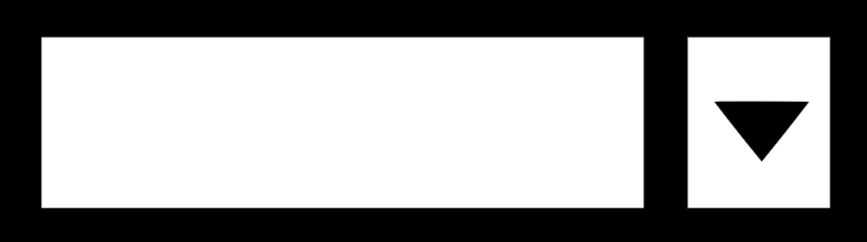
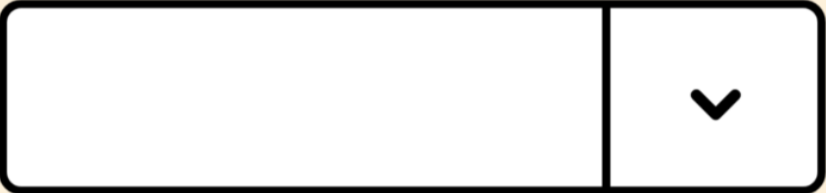
Modified dropdown

diff --git a/src/components/user-components/Dropdown/Dropdown.tsx b/src/components/user-components/Dropdown/Dropdown.tsx
@@ -1,7 +1,7 @@
 import React, { useContext, useState } from "react";
 import { MenuItem, Select } from "@material-ui/core";
 import { AppContext } from "../../../Context/App.context";
-import DropdownImg from "./Dropdowns.png";
+import DropdownImg from "./Dropdown.png";
 import "./Dropdown.scss";
 
 interface Props {
@@ -26,9 +26,8 @@ const DropdownComponent: React.FC<Props> = ({ id }) => {
     )[0];
     return requiredItem;
   })();
-  var { options, value } = item;
-  // eslint-disable-next-line no-redeclare
-  var [value, setValue] = useState<string>(value || "Placeholder");
+  const { options, value } = item;
+  const [label, setLabel] = useState<string>("");
   const typeToShow = () => {
     if (!edit)
       return (
@@ -37,7 +36,7 @@ const DropdownComponent: React.FC<Props> = ({ id }) => {
             options.length && (
               <>
                 <Select
-                  value={value || "Placeholder"}
+                  value={label || value || "Placeholder"}
                   variant="outlined"
                   className="select-dropdown"
                   onChange={(
@@ -45,14 +44,16 @@ const DropdownComponent: React.FC<Props> = ({ id }) => {
                       name?: string | undefined;
                       value: any;
                     }>
-                  ) => setValue(e.target.value)}
+                  ) => setLabel(e.target.value)}
                 >
                   <MenuItem value={value || "Placeholder"} disabled>
                     {value || "Placeholder"}
                   </MenuItem>
-                  {options.map((option) =>
+                  {options.map((option, idx) =>
                     option !== "" ? (
-                      <MenuItem value={option}> {option} </MenuItem>
+                      <MenuItem key={idx} value={option}>
+                        {option}
+                      </MenuItem>
                     ) : null
                   )}
                 </Select>
@@ -65,7 +66,7 @@ const DropdownComponent: React.FC<Props> = ({ id }) => {
               value={value || "Placeholder"}
             >
               <MenuItem value={value || "Placeholder"} disabled>
-                Placeholder
+                {value || "Placeholder"}
               </MenuItem>
             </Select>
           )}

diff --git a/src/components/Options/Options.tsx b/src/components/Options/Options.tsx
@@ -76,24 +76,6 @@ const Options: React.FC<Props> = () => {
           <div className="d-flex flex-column text-center">
             <i
               onClick={() => {
-                dispatch({ type: ADD_ITEM, payload: "hline" });
-              }}
-              className="fas fa-grip-lines fa-2x"
-            ></i>
-            <small>Horizontal Line</small>
-          </div>
-          <div className="d-flex flex-column text-center">
-            <i
-              onClick={() => {
-                dispatch({ type: ADD_ITEM, payload: "vline" });
-              }}
-              className="fas fa-grip-lines-vertical fa-2x"
-            ></i>
-            <small>Vertical line</small>
-          </div>
-          <div className="d-flex flex-column text-center">
-            <i
-              onClick={() => {
                 dispatch({ type: ADD_ITEM, payload: "checkbox" });
               }}
               className="fas fa-check-circle fa-2x"
@@ -151,6 +133,24 @@ const Options: React.FC<Props> = () => {
               className="fas fa-dot-circle fa-2x"
             ></i>
             <small>Radio Input</small>
+          </div>
+          <div className="d-flex flex-column text-center">
+            <i
+              onClick={() => {
+                dispatch({ type: ADD_ITEM, payload: "hline" });
+              }}
+              className="fas fa-grip-lines fa-2x"
+            ></i>
+            <small>Horizontal Line</small>
+          </div>
+          <div className="d-flex flex-column text-center">
+            <i
+              onClick={() => {
+                dispatch({ type: ADD_ITEM, payload: "vline" });
+              }}
+              className="fas fa-grip-lines-vertical fa-2x"
+            ></i>
+            <small>Vertical line</small>
           </div>
           <div className="d-flex flex-column text-center">
             <i

diff --git a/src/components/Customize/Forms/DropdownOptions.tsx b/src/components/Customize/Forms/DropdownOptions.tsx
@@ -8,27 +8,35 @@ import {
 } from "../../../Reducer/actionTypes";
 import CustomForm from "./CustomForm";
 import "./Form.scss";
+import { useAlert } from "react-alert";
 
 interface Props {}
 
 const DropdownOptions: React.FC<Props> = () => {
   const { state, dispatch } = useContext(AppContext);
-
   const [value, handleValue, resetValue] = useInput("");
   const [option0, handleOption0, resetOption0] = useInput("");
   const [option1, handleOption1, resetOption1] = useInput("");
   const [option2, handleOption2, resetOption2] = useInput("");
   const [option3, handleOption3, resetOption3] = useInput("");
+  const alert = useAlert();
+
   const handleSubmit = (event: React.FormEvent<HTMLFormElement>) => {
     event.preventDefault();
+    alert.success(
+      <div className="alert-dropdown">
+        Switch to preview mode to see options
+      </div>
+    );
     dispatch({
       type: CHANGE_DROPDOWN,
       payload: {
         id: state.activeId,
-        value,
+        value: value || "Placeholder",
         options: [option0, option1, option2, option3],
       },
     });
+
     resetValue();
     resetOption0();
     resetOption1();

diff --git a/src/index.tsx b/src/index.tsx
@@ -3,12 +3,20 @@ import ReactDOM from "react-dom";
 import "./index.css";
 import App from "./App";
 import * as serviceWorker from "./serviceWorker";
-import { AppProvider } from "./Context/App.context";
+import { transitions, positions, Provider as AlertProvider } from "react-alert";
+import AlertTemplate from "react-alert-template-basic";
+
+const options = {
+  position: positions.BOTTOM_CENTER,
+  timeout: 2000,
+  offset: "10px",
+  transition: transitions.FADE,
+};
 
 ReactDOM.render(
-  <AppProvider>
+  <AlertProvider template={AlertTemplate} {...options}>
     <App />
-  </AppProvider>,
+  </AlertProvider>,
   document.getElementById("root")
 );
 

diff --git a/src/decs.d.ts b/src/decs.d.ts
@@ -1,2 +1,3 @@
 declare module "react-to-pdf";
 declare module "react-resizable-rotatable-draggable";
+declare module "react-alert-template-basic";

diff --git a/src/components/Customize/Forms/Form.scss b/src/components/Customize/Forms/Form.scss
@@ -3,6 +3,10 @@
   margin: 0;
 }
 
+.alert-dropdown {
+  text-transform: none !important;
+}
+
 .container {
   display: flex;
   height: 100vh;

diff --git a/src/App.scss b/src/App.scss
@@ -16,6 +16,7 @@
 }
 
 .logo-text {
+  white-space: nowrap;
   position: absolute;
   cursor: pointer;
   font-weight: 600;
